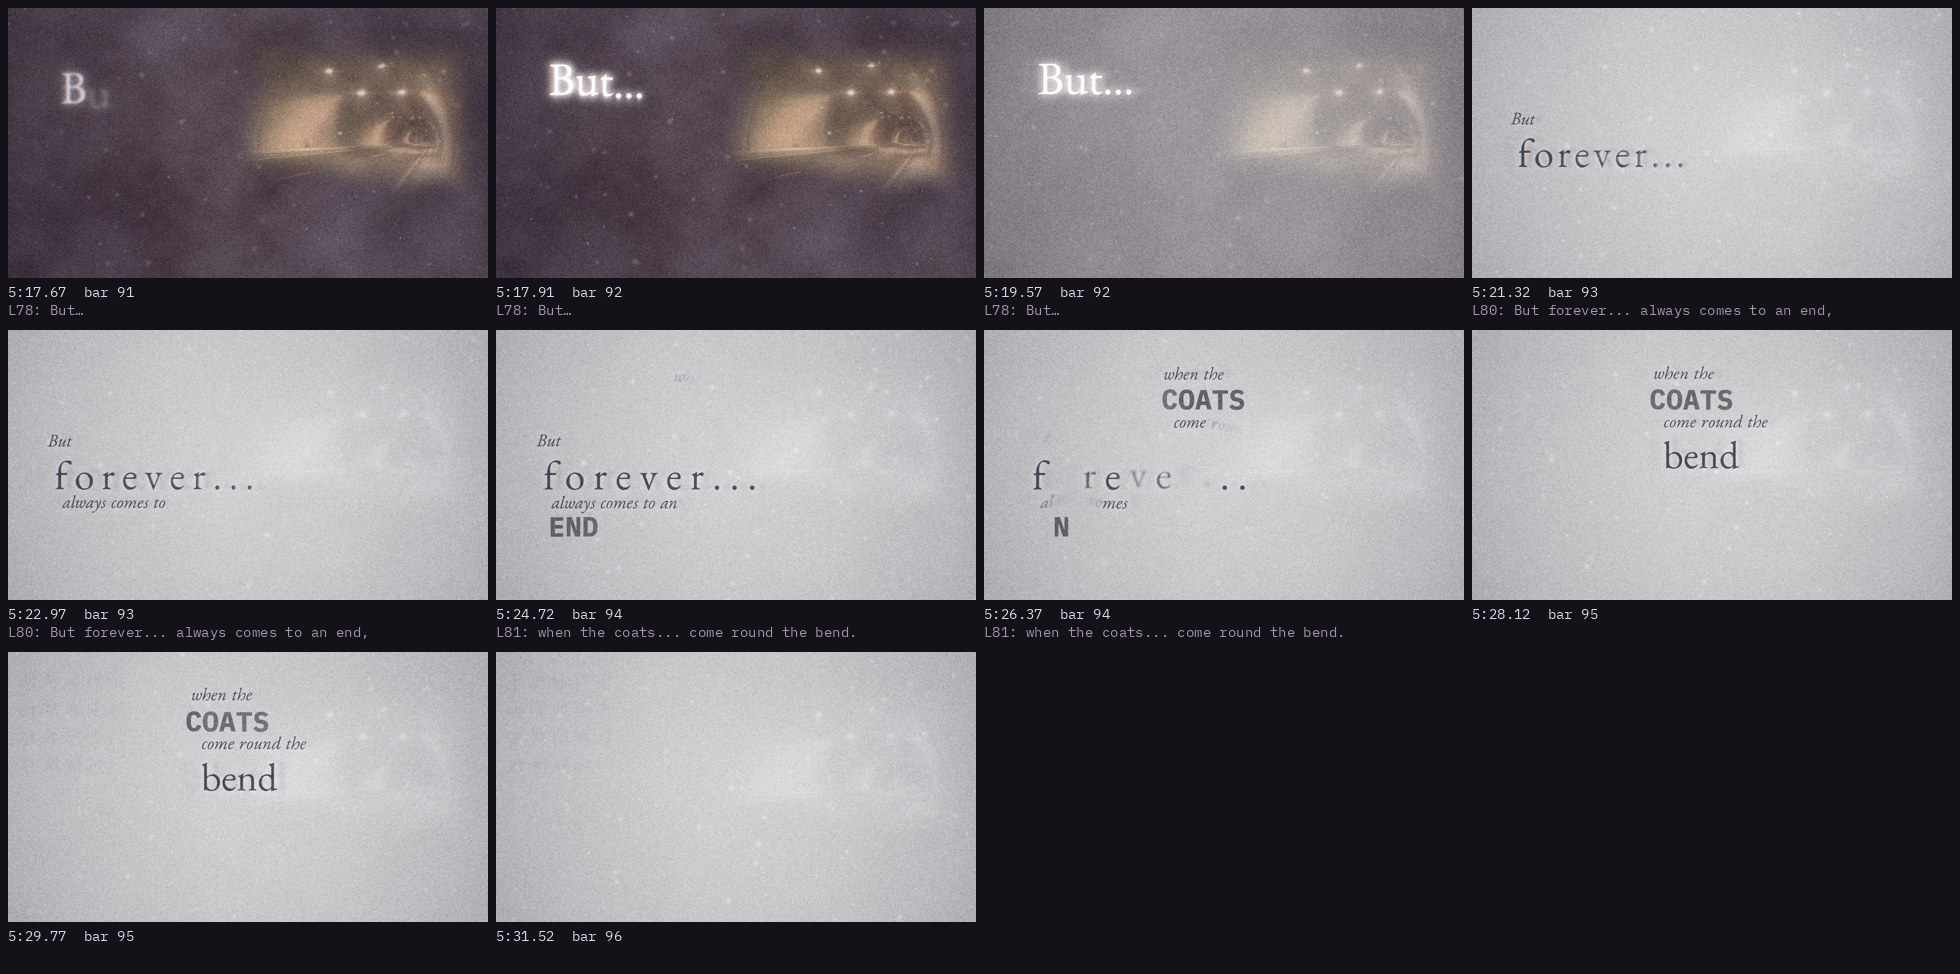
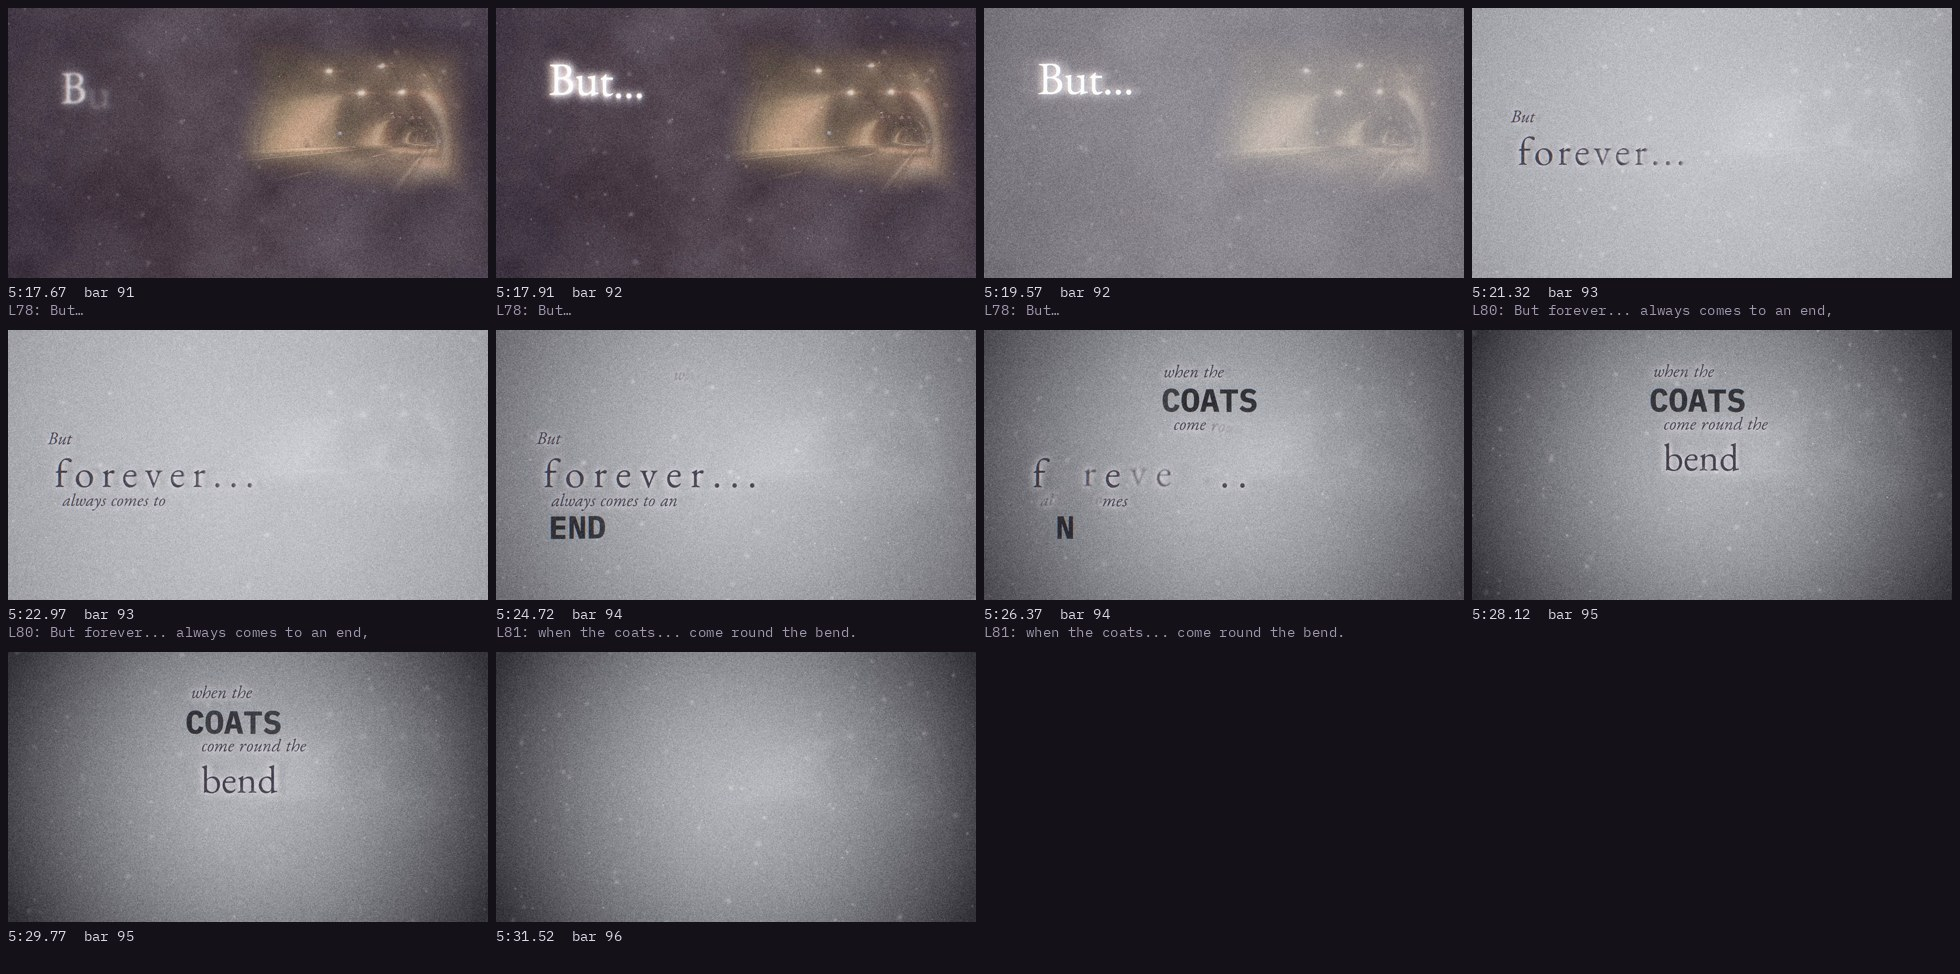
But...: heavier: near-black bold END/COATS; cold heavy white that closes in from END
kinetic: 'coatdark' ink for the coats at their heaviest.

Claude-Session: https://claude.ai/code/session_013aPae8dR11r7xw8o95d9Yi

diff --git a/storyboard/index.html b/storyboard/index.html
@@ -150,7 +150,7 @@ ol.steps li::marker { font: 600 0.85rem var(--mono); color: var(--ink-2); }
   </video>
   <figcaption><b>But...</b>
     <span class="tc">5:17.6 → 5:32.4 · bars 92–96</span>
-    <span class="note">Everything stops. The run freezes on the downbeat under &#x27;But...&#x27; and bleaches to white over one bar; &#x27;But...&#x27;, written in her light, dissolves into the white with it. Then dark ink on the white: &#x27;But FOREVER... always comes to an&#x27; END, forever being the run&#x27;s word, and the end the coats&#x27;: END and COATS are in their grey type, as EVER was. &#x27;When the COATS come round the BEND&#x27; answers it at the upper right; on &#x27;bend&#x27; one hard cold sweep of light, and her tally marks come back: their count resumes in the silence before they speak. <a href="renders/but_contact.jpg">Contact sheet</a></span></figcaption>
+    <span class="note">Heavier: the run freezes on the downbeat under &#x27;But...&#x27; (in her light, dissolving) and drains to a cold, heavy white, not a clean one. &#x27;But FOREVER... always comes to an&#x27; END, with END and COATS now in the coats&#x27; darkest ink, bold, near-black. From END the white closes in: the edges darken, and they darken further from COATS, holding through the cold sweep on &#x27;bend&#x27; and into the silence, while her tally marks come back. Their count resumes in the dark. <a href="renders/but_contact.jpg">Contact sheet</a></span></figcaption>
 </figure>
 <figure class="render" id="render-the_run">
   <video controls playsinline preload="metadata" poster="renders/the_run_poster.jpg" width="1280" height="720">

diff --git a/video/sections.py b/video/sections.py
@@ -752,10 +752,11 @@ BUT_SHOTS = {
     80: dict(dy=130, exit_at=325.9,                                      # lower left, held so END
              set=[([0], 1.0, 0), ([1], 2.3, 30, {"stretch": True}),     # can be read: but FOREVER...
                   ([2, 3, 4, 5], 1.0, 60),                             # always comes to an
-                  ([6], 2.0, 60, {"voice": "coats", "kind": "coat"})]),   # END: their ink
+                  ([6], 2.3, 60, {"voice": "coats", "kind": "coatdark", "key": "coats_bold"})]),   # END
     81: dict(dy=-250, no_separate=True,                                  # upper right, beside it
              set=[([0, 1], 1.0, 560),                                  # when the
-                  ([2], 2.0, 560, {"voice": "coats", "kind": "coat", "bare": True}),   # COATS
+                  ([2], 2.3, 560, {"voice": "coats", "kind": "coatdark", "key": "coats_bold",
+                                   "bare": True}),                     # COATS
                   ([3, 4, 5], 1.0, 600), ([6], 2.2, 600)]),            # come round the BEND
 }
 
@@ -780,7 +781,16 @@ def but(t, T, lines):
     # 'But...' in her light, frozen with the run, dissolving into the white
     img = kin(T, "But...#light", [78], BUT_I_SHOTS, light=True, hold=0.0).draw(img, t)
     L = img.mean(-1, keepdims=True)
-    img = img * (1 - drain) + (L * 0.25 + 0.72) * drain        # colour drains, bleaches
+    cold_white = np.array([0.95, 0.975, 1.0], np.float32)
+    img = img * (1 - drain) + (L * 0.22 + 0.66) * cold_white * drain   # drains to a cold, heavy white
+    # from END the white closes in: the edges darken and stay dark into the silence
+    end_t = word_at(T, 80, "end")
+    close = 0.0 if end_t is None else smooth(ramp(t, end_t, end_t + 2.2))
+    coats_t = word_at(T, 81, "coats")
+    close = max(close, 0.0 if coats_t is None else 1.4 * smooth(ramp(t, coats_t, coats_t + 2.5)))
+    if close > 0.01:
+        img = fx.vignette(img, 0.25 + 0.45 * close, "#1A1D22")
+        img = img * (1 - 0.1 * close)
     # 'round the bend': one hard cold sweep of light
     bend = word_at(T, 81, "bend")
     if bend is not None and t >= bend - 0.3:

diff --git a/storyboard/spec.py b/storyboard/spec.py
@@ -254,7 +254,7 @@ STYLE_FRAMES = [
 # Sections built so far: (slug, section name, note shown under the player)
 RENDERS = [
     ("but", "But...",
-     "Everything stops. The run freezes on the downbeat under 'But...' and bleaches to white over one bar; 'But...', written in her light, dissolves into the white with it. Then dark ink on the white: 'But FOREVER... always comes to an' END, forever being the run's word, and the end the coats': END and COATS are in their grey type, as EVER was. 'When the COATS come round the BEND' answers it at the upper right; on 'bend' one hard cold sweep of light, and her tally marks come back: their count resumes in the silence before they speak.",
+     "Heavier: the run freezes on the downbeat under 'But...' (in her light, dissolving) and drains to a cold, heavy white, not a clean one. 'But FOREVER... always comes to an' END, with END and COATS now in the coats' darkest ink, bold, near-black. From END the white closes in: the edges darken, and they darken further from COATS, holding through the cold sweep on 'bend' and into the silence, while her tally marks come back. Their count resumes in the dark.",
     ),
     ("the_run", "The Run",
      "The one time they are free. Warm and fast, but nothing pulses and nothing comes at the viewer: speed is sideways (long-exposure streaks, motel and diner photographs rushing past, light trails behind her words). No tally marks: time isn't counted here. four 'ran's (no ellipses) scattered across the frame; FOREVER / EVER; TUNNEL / MOTEL; 'lost' turns good (LOST / LOST, lost in each OTHER); FOUND with its echo. Then the title is sung outright: 'lost and found' set plainly in the title's place, and its words slide past each other into 'found and lost...'. 'Forever and ever and ever' steps down and lets go before 'But...'.",

diff --git a/video/kinetic.py b/video/kinetic.py
@@ -298,6 +298,7 @@ GRAPHITE = np.array([0.09, 0.1, 0.12], np.float32)
 AMBER = np.array([1.0, 0.6, 0.29], np.float32)
 AMBER_HOT = np.array([1.0, 0.8, 0.56], np.float32)
 COLD = np.array([0.78, 0.86, 1.0], np.float32)
+COAT_DARK = np.array([0.045, 0.05, 0.06], np.float32)
 
 
 class Kinetic:
@@ -818,6 +819,8 @@ class Kinetic:
                 img = fx.over(img, self.color, m)
             elif kind == "coat":
                 img = fx.over(img, GRAPHITE, m * 0.92)
+            elif kind == "coatdark":                        # the coats at their heaviest
+                img = fx.over(img, COAT_DARK, np.clip(m * 1.1, 0, 1))
             elif kind == "cold":                            # the coats' type as cold light
                 img = fx.add(img, COLD, m * 1.1)
             elif kind == "coldhalo":
